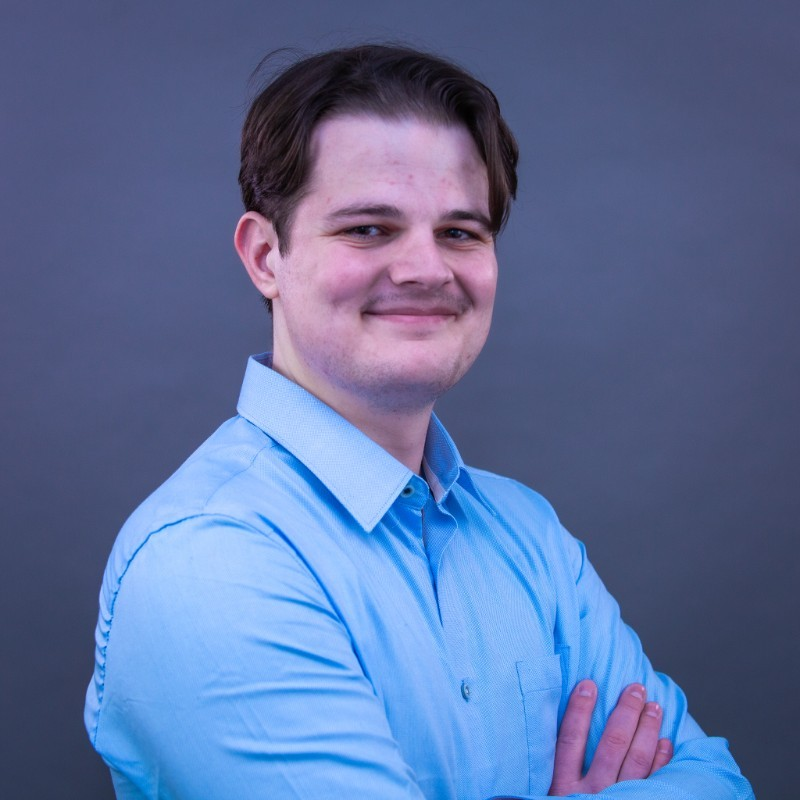
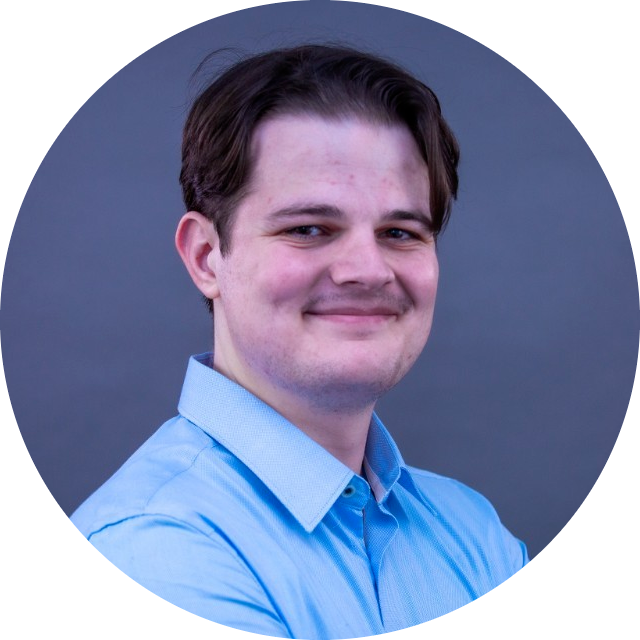
landing and stuff

diff --git a/Portfolio/src/app/project-dashboard/project-dashboard.component.ts b/Portfolio/src/app/project-dashboard/project-dashboard.component.ts
@@ -29,7 +29,7 @@ export class ProjectDashboardComponent {
   cards = [
         { title: 'Emojle',
           image: 'assets/emojle.jpg',
-          description: '',
+          description: 'Emojle is an emoji-based guessing game similar to Wordle, the objective is to guess the correct emoji based on feedback on previous guesses. Start by selecting any emoji and use the information you get from that guess to try and find the emoji of the day!',
           githubLink: 'https://github.com/Zinckle/Emoji-Wordle',
           pageLink: 'https://emojle.zinck.xyz/',
           cols: 1, rows: 2 },
@@ -49,10 +49,10 @@ export class ProjectDashboardComponent {
           cols: 1, rows: 2 },
 
         { title: 'ZinckLib',
-          image: 'assets/Aspect-ratio-4x3.svg.png',
-          description: '',
+          image: 'assets/ZinckLib.png',
+          description: 'The main focus of this library is around the manipulation of strings between various forms like strings to numbers or converting a number to its written form. There are also some other tools like creating a list of prime numbers less than a given value or determining if a string is in alphabetical order.',
           githubLink: 'https://github.com/Zinckle/ZinckLib',
-          pageLink: '',
+          pageLink: 'https://pypi.org/project/ZinckLib/',
           cols: 1, rows: 2 }
       ];
 }

diff --git a/Portfolio/src/app/about/about.component.html b/Portfolio/src/app/about/about.component.html
@@ -1,13 +1,12 @@
-<h1 class="mat-h1">Hi! I'm Mitchell Zinck</h1>
-<mat-card class="">
+<mat-card class="pt-5">
   <mat-card-content>
     <div class="d-flex row">
-      <div class="col-md-4" >
-        <div class="center-block">
+      <!--<div class="col-md-4" >
+         <div class="center-block">
           <img src="\assets\Me.png" alt="Mitchell Zinck" class="img " />
         </div>
         <div class="justify-content-left pt-4" >
-          <!-- generated using https://markdowntohtml.com/ -->
+          <!-- generated using https://markdowntohtml.com/
           <p>
             <img
               src="https://img.shields.io/badge/c-%2300599C.svg?style=for-the-badge&amp;logo=c&amp;logoColor=white"
@@ -83,8 +82,8 @@
             />
           </p>
         </div>
-      </div>
-      <div class="col-md-8 px-5">
+      </div>-->
+      <div class="col-md-12 px-5">
 
         <p class="h1">I'm a Software Developer based out of Ottawa, Canada</p>
 

diff --git a/Portfolio/src/app/app.component.ts b/Portfolio/src/app/app.component.ts
@@ -3,13 +3,13 @@ import { RouterOutlet } from '@angular/router';
 import { MatSlideToggleModule } from '@angular/material/slide-toggle';
 import { AboutComponent } from "./about/about.component";
 import { ProjectDashboardComponent } from "./project-dashboard/project-dashboard.component";
-import { ProjectCardComponent } from "./project-card/project-card.component";
+import { LandingComponent } from "./landing/landing.component";
 
 @Component({
   selector: 'app-root',
   standalone: true,
   imports: [RouterOutlet,
-    MatSlideToggleModule, AboutComponent, ProjectDashboardComponent, ProjectCardComponent],
+    MatSlideToggleModule, AboutComponent, ProjectDashboardComponent, LandingComponent],
   templateUrl: './app.component.html',
   styleUrl: './app.component.scss'
 })

diff --git a/Portfolio/src/app/landing/landing.component.html b/Portfolio/src/app/landing/landing.component.html
@@ -1,1 +1,9 @@
-<p>landing works!</p>
+<header class="masthead text-center">
+  <div class="container d-flex align-items-center flex-column">
+      <!-- Masthead Avatar Image-->
+      <img class="masthead-avatar mb-5 pt-5" src="\assets\Me.png" alt="..." />
+      <!-- Masthead Heading-->
+      <h1 class="masthead-heading text-uppercase mb-0">Mitchell Zinck</h1>
+
+  </div>
+</header>

diff --git a/Portfolio/src/app/project-card/project-card.component.html b/Portfolio/src/app/project-card/project-card.component.html
@@ -6,7 +6,7 @@
   </mat-card-header>
   <mat-card-content class="col">
     <img src="{{imageSrc}}" alt="Image" class="img"/>
-    <div>
+    <div class="pb-3">
       {{description}}
     </div>
     <div class="d-flex justify-content-end">

diff --git a/Portfolio/src/app/app.component.html b/Portfolio/src/app/app.component.html
@@ -1,4 +1,5 @@
 <div class="col justify-content-center page_wrpr">
+  <app-landing></app-landing>
 <div class="py-4"><app-about></app-about></div>
 
 <app-project-dashboard></app-project-dashboard>

diff --git a/Portfolio/src/app/landing/landing.component.scss b/Portfolio/src/app/landing/landing.component.scss
@@ -1,0 +1,3 @@
+.masthead-avatar {
+  max-width: 400px;
+}
